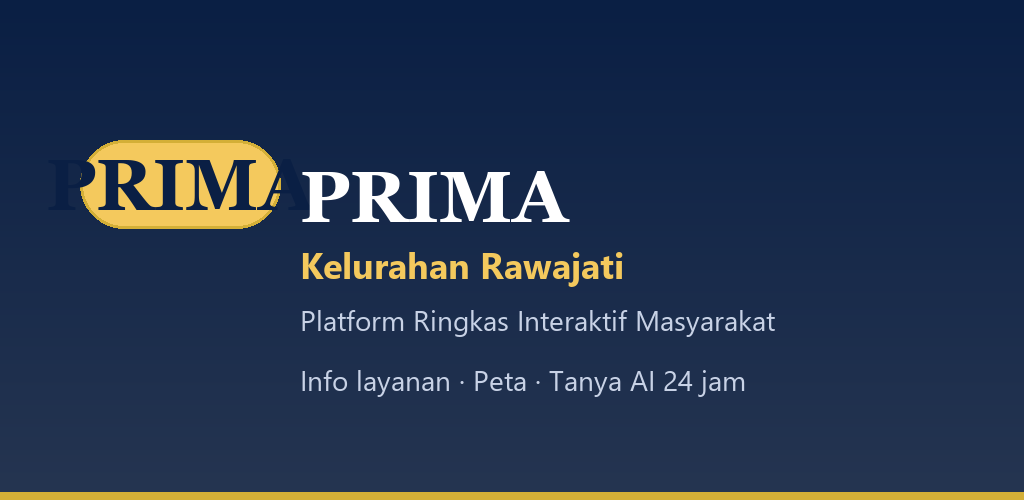
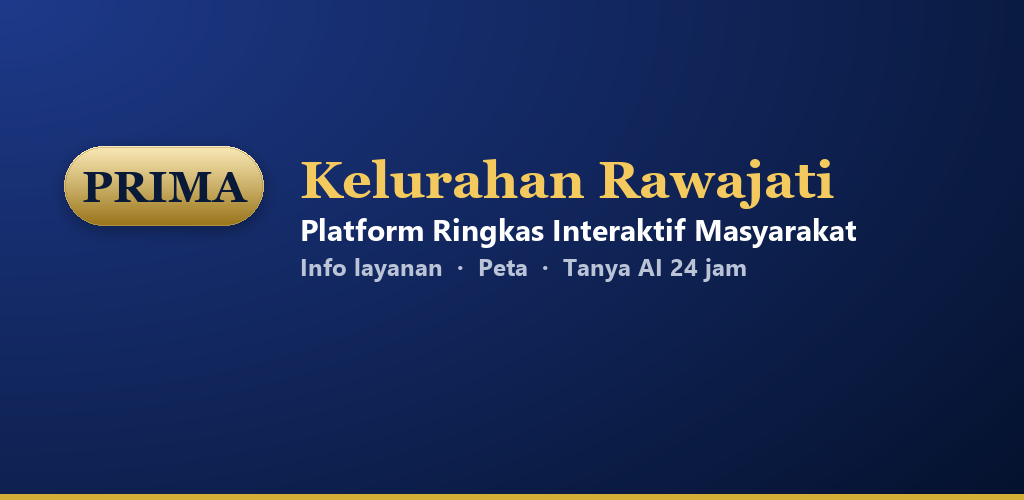
fix(play): feature graphic safe margins, single PRIMA pill not clipped

diff --git a/tools/generate-feature-graphic.py b/tools/generate-feature-graphic.py
@@ -1,0 +1,120 @@
+#!/usr/bin/env python3
+"""Generate Play Store feature graphic 1024x500 — safe margins, no clipped logo."""
+
+from __future__ import annotations
+
+import importlib.util
+import math
+from pathlib import Path
+
+from PIL import Image, ImageDraw, ImageFilter
+
+ROOT = Path(__file__).resolve().parents[1]
+OUT = ROOT / "img" / "play" / "feature-graphic.png"
+W, H = 1024, 500
+
+# Reuse pill + fonts from icon generator
+_spec = importlib.util.spec_from_file_location(
+    "gen_icons", ROOT / "tools" / "generate-app-icons.py"
+)
+_icons = importlib.util.module_from_spec(_spec)
+assert _spec.loader
+_spec.loader.exec_module(_icons)
+
+NAVY_DEEP = _icons.NAVY_DEEP
+NAVY_LIGHT = _icons.NAVY_LIGHT
+GOLD = _icons.GOLD
+GOLD_LIGHT = (244, 201, 93)
+INK = _icons.INK
+RAW_GOLD = _icons.RAW_GOLD
+WHITE = (255, 255, 255)
+MUTED = (186, 196, 214)
+
+
+def _lerp(a: int, b: int, t: float) -> int:
+    return int(a + (b - a) * t)
+
+
+def make_banner_bg() -> Image.Image:
+    img = Image.new("RGB", (W, H))
+    px = img.load()
+    for y in range(H):
+        for x in range(W):
+            tx = x / max(W - 1, 1)
+            ty = y / max(H - 1, 1)
+            t = math.sqrt(tx * tx * 0.6 + ty * ty * 0.4)
+            r = _lerp(NAVY_LIGHT[0], NAVY_DEEP[0], t)
+            g = _lerp(NAVY_LIGHT[1], NAVY_DEEP[1], t)
+            b = _lerp(NAVY_LIGHT[2], NAVY_DEEP[2], t)
+            px[x, y] = (r, g, b)
+    return img.convert("RGBA")
+
+
+def main() -> None:
+    margin_x, margin_y = 64, 48
+    pill_w, pill_h = 200, 80
+    gap = 36
+
+    img = make_banner_bg()
+    draw = ImageDraw.Draw(img)
+
+    # Gold accent bar (inside canvas)
+    draw.rectangle([0, H - 6, W, H], fill=GOLD)
+
+    block_h = pill_h + 8 + 120
+    pill_y = margin_y + max(0, (H - margin_y * 2 - block_h) // 2)
+    pill_x = margin_x
+    pill_cy = pill_y + pill_h // 2
+    pill_cx = pill_x + pill_w // 2
+
+    shadow = Image.new("RGBA", (W, H), (0, 0, 0, 0))
+    sd = ImageDraw.Draw(shadow)
+    sd.rounded_rectangle(
+        (pill_x, pill_y + 4, pill_x + pill_w, pill_y + pill_h + 4),
+        radius=pill_h // 2,
+        fill=(0, 0, 0, 80),
+    )
+    shadow = shadow.filter(ImageFilter.GaussianBlur(8))
+    img.alpha_composite(shadow)
+
+    pill = _icons.make_pill(pill_w, pill_h)
+    img.alpha_composite(pill, (pill_x, pill_y))
+
+    prima_font = _icons.fit_font(draw, "PRIMA", int(pill_w * 0.88), 44, serif=True)
+    _icons.draw_centered(draw, (pill_cx, pill_cy), "PRIMA", prima_font, INK)
+
+    text_x = pill_x + pill_w + gap
+    max_text_w = W - margin_x - text_x
+    y = pill_y + 4
+
+    title_font = _icons.find_font(52, serif=True)
+    sub_font = _icons.find_font(30, serif=False)
+    tag_font = _icons.find_font(24, serif=False)
+
+    draw.text((text_x, y), "Kelurahan Rawajati", font=title_font, fill=GOLD_LIGHT)
+    y += 58
+    draw.text(
+        (text_x, y),
+        "Platform Ringkas Interaktif Masyarakat",
+        font=sub_font,
+        fill=WHITE,
+    )
+    y += 42
+    draw.text(
+        (text_x, y),
+        "Info layanan  ·  Peta  ·  Tanya AI 24 jam",
+        font=tag_font,
+        fill=MUTED,
+    )
+
+    # Safety: ensure nothing drawn outside — export exact size
+    out = img.convert("RGB")
+    if out.size != (W, H):
+        out = out.resize((W, H), Image.Resampling.LANCZOS)
+    OUT.parent.mkdir(parents=True, exist_ok=True)
+    out.save(OUT, "PNG", optimize=True)
+    print(f"Saved {OUT} ({out.size[0]}x{out.size[1]})")
+
+
+if __name__ == "__main__":
+    main()